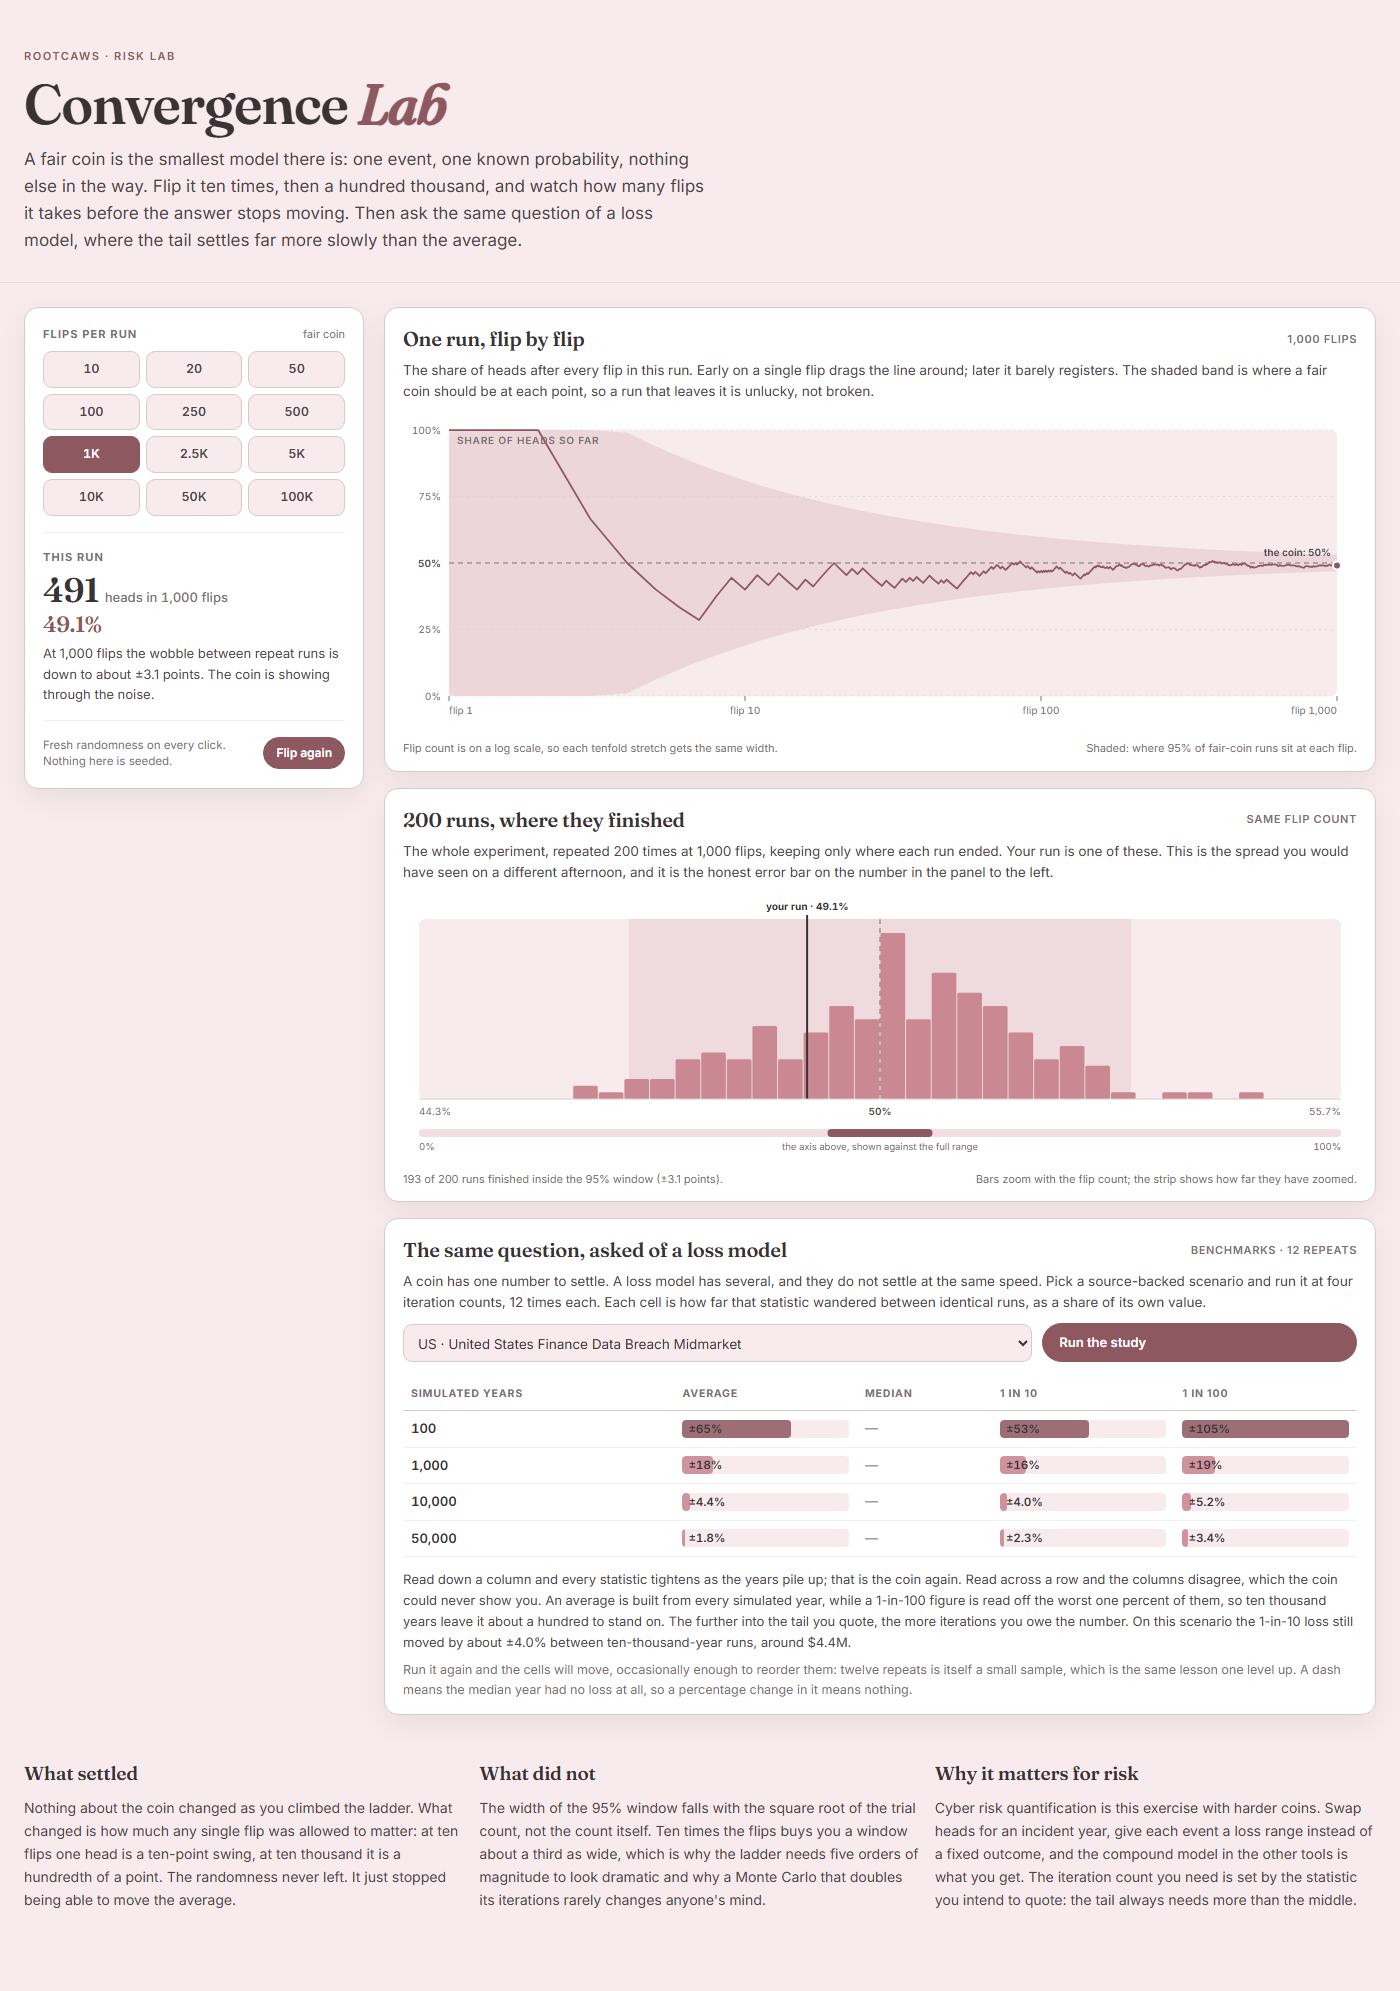
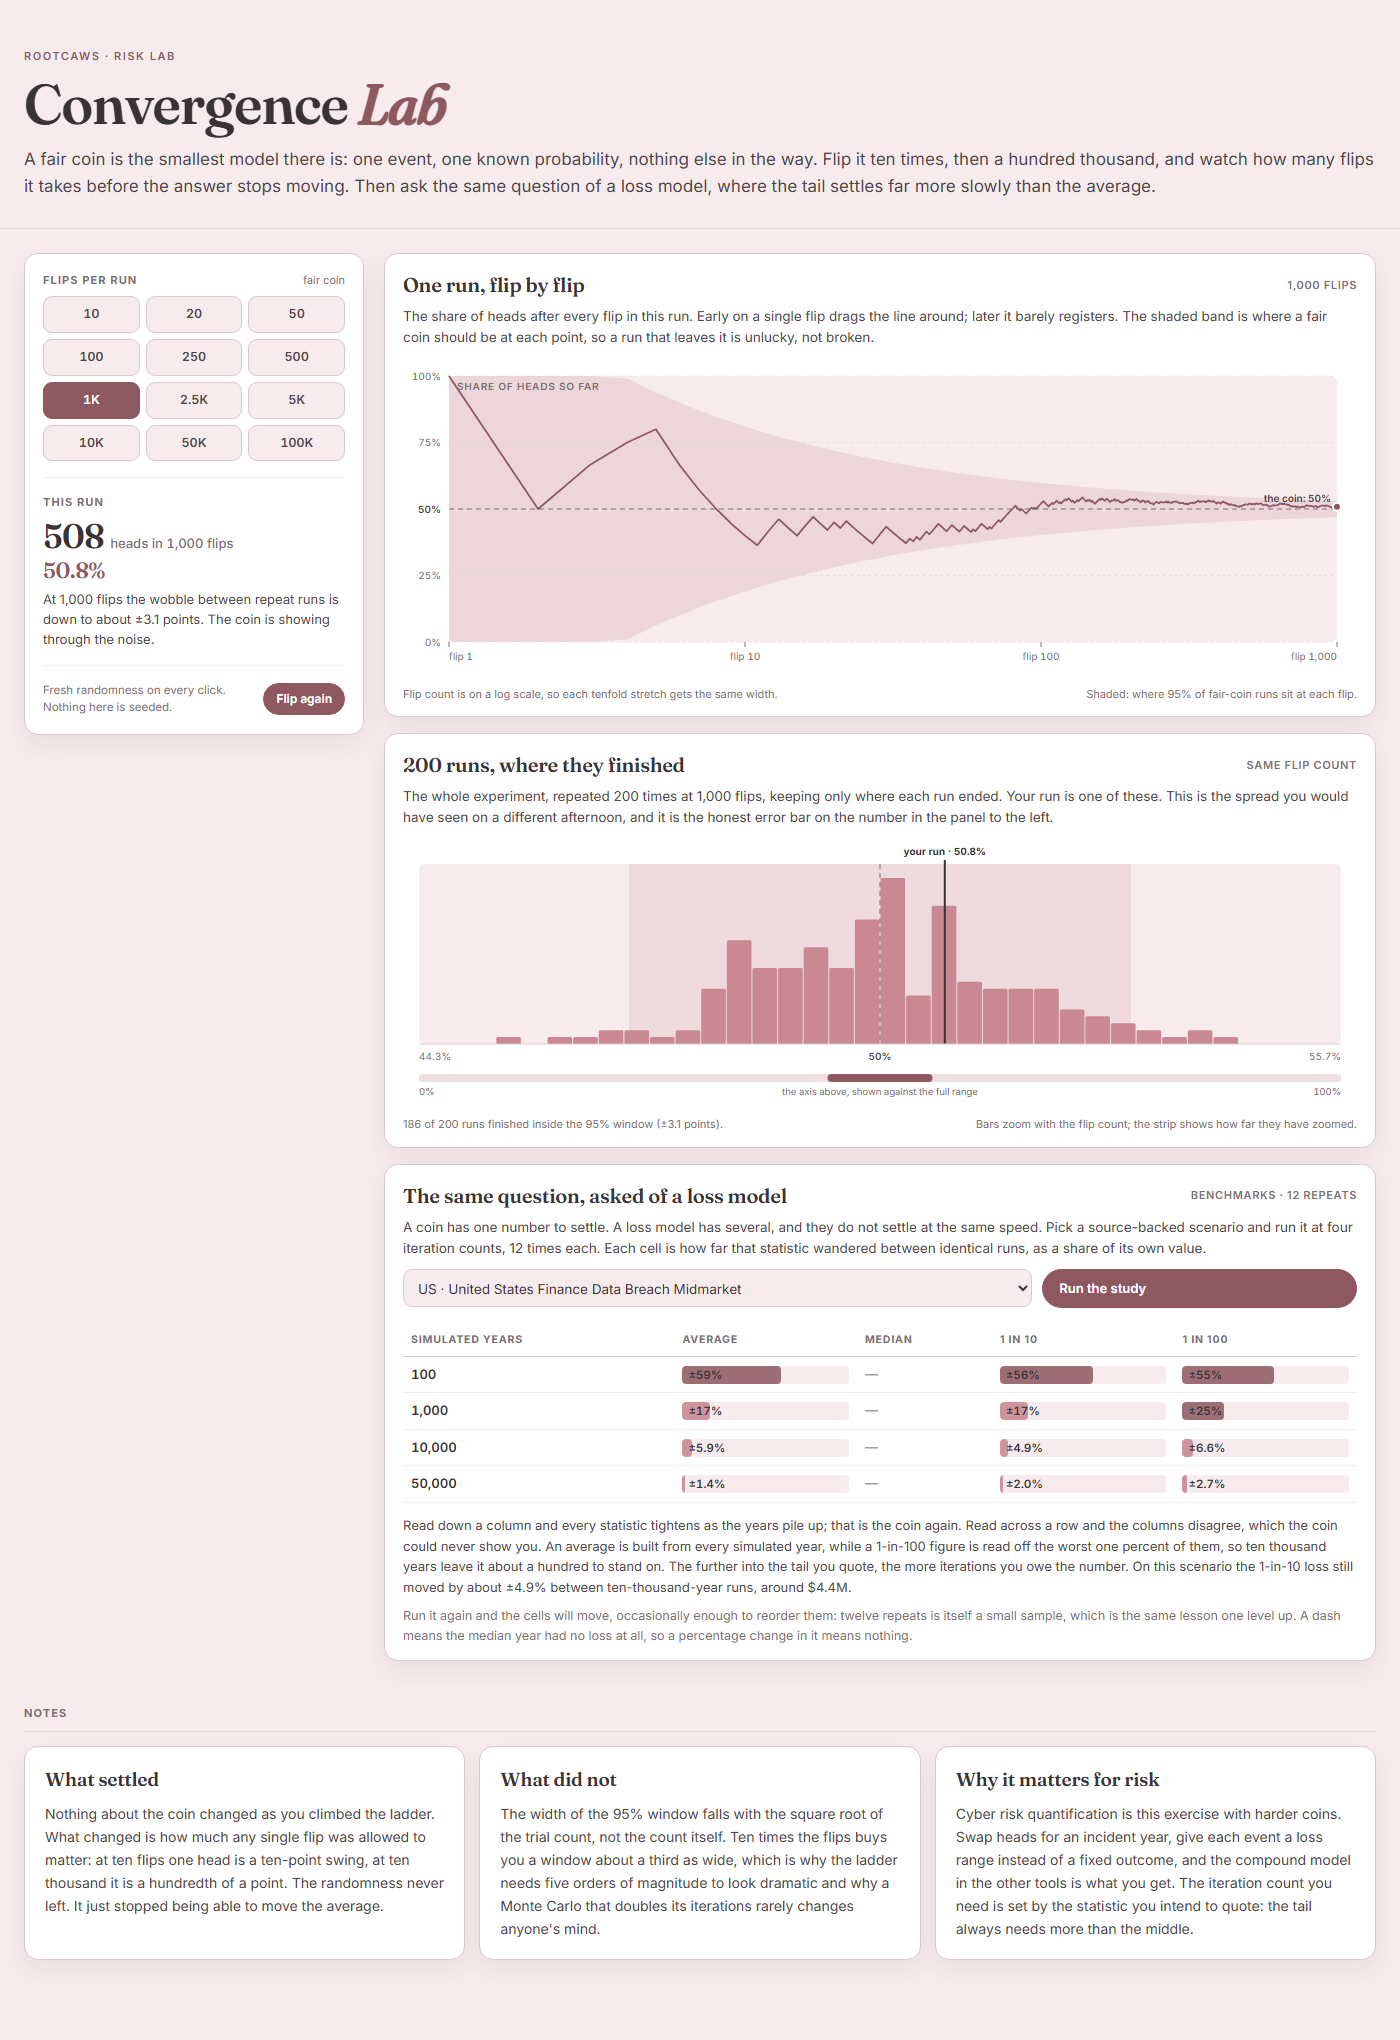
Run the introduction full width and card the notes
The intro paragraph was capped at a text measure while everything else
on the page runs the full container width. The notes at the foot were
bare columns on the page background; they now sit in the same cards as
the rest of the page, under a small section label.

diff --git a/index.html b/index.html
@@ -46,7 +46,7 @@
     .kicker{font-size:11px;font-weight:600;letter-spacing:.14em;text-transform:uppercase;color:var(--rose)}
     .masthead h1{font-family:var(--display);font-weight:600;font-size:clamp(34px,4.6vw,56px);line-height:1.02;letter-spacing:-.02em;margin:10px 0 14px}
     .masthead h1 em{font-style:italic;color:var(--rose)}
-    .deck{font-size:17px;color:var(--ink-2);max-width:64ch;line-height:1.6}
+    .deck{font-size:17px;color:var(--ink-2);line-height:1.6}
 
     .bench{display:grid;grid-template-columns:minmax(280px,340px) minmax(0,1fr);gap:20px;align-items:start;padding-top:24px}
     @media (max-width:899px){.bench{grid-template-columns:1fr}}
@@ -104,6 +104,8 @@
     .empty{font-size:12.5px;color:var(--muted);padding:8px 0}
 
     .notes{display:grid;grid-template-columns:repeat(3,1fr);gap:14px;padding-top:28px;padding-bottom:80px}
+    .notes::before{content:"Notes";grid-column:1/-1;font-size:11px;font-weight:700;letter-spacing:.1em;text-transform:uppercase;color:var(--muted);padding-bottom:10px;border-bottom:1px solid var(--soft-line)}
+    .note{background:var(--panel);border:1px solid var(--line);border-radius:var(--radius);box-shadow:var(--shadow);padding:18px 20px}
     @media (max-width:899px){.notes{grid-template-columns:1fr}}
     .note h3{font-family:var(--display);font-weight:600;font-size:19px;margin-bottom:8px;letter-spacing:-.01em}
     .note p{font-size:14px;color:var(--ink-2);line-height:1.65}
